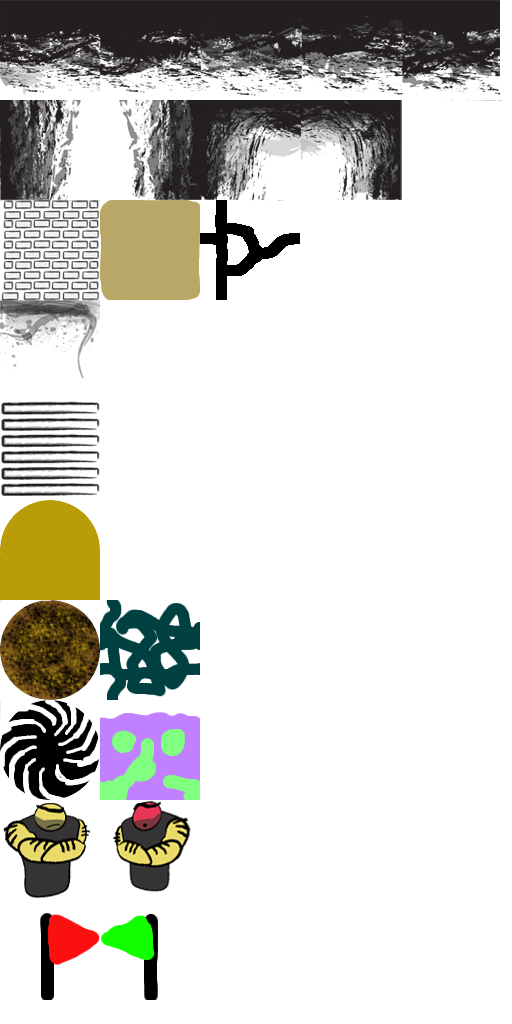
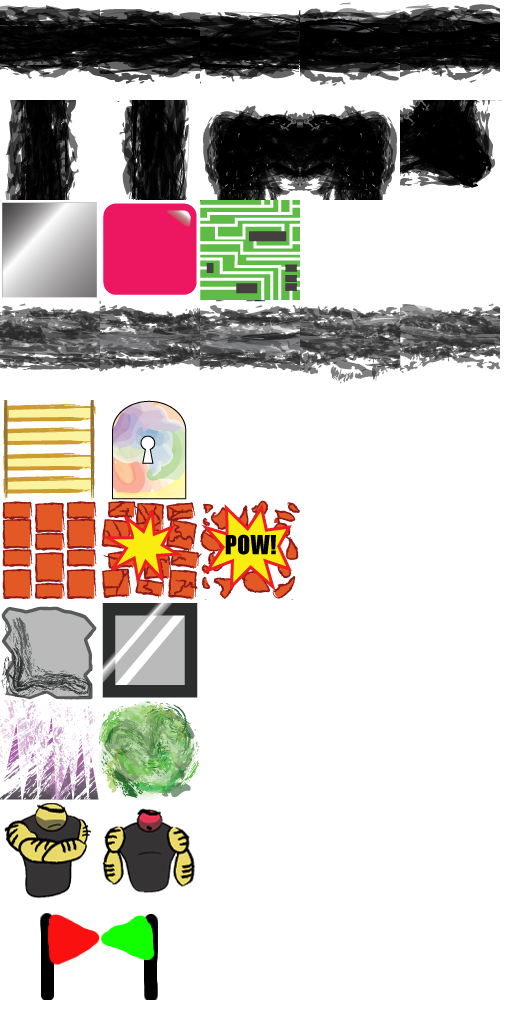
Updated the tile and also added animation for destruction of breakable block.

diff --git a/src/main.cpp b/src/main.cpp
@@ -209,12 +209,12 @@ void initLevel(int level)
 {
   // objects that are needed by the state
   Player *p;
-  Drawable *block1, *background, *breakable, *plat1, *ladder, *paused_background;
+  Drawable *block1, *background, *breakable1, *plat1, *ladder, *paused_background;
   Drawable *map_image, *pointer, *left_block, *right_block, *left_corner_block;
   Drawable *right_corner_block, *moveable, *goal, *block2, *block3, *block4;
   Drawable *block5, *black_hole, *bouncer_cr, *bouncer_cl, *bouncer_o, *rubber;
   Drawable *circuit, *n_check, *o_check, *toxic_sludge, *paused_names, *smog;
-  Drawable *br_bl, *bl_bl, *plat2, *plat3, *plat4, *plat5;
+  Drawable *br_bl, *bl_bl, *plat2, *plat3, *plat4, *plat5, *breakable2, *breakable3;
   Texture *t, *bg, *tiles, *pause_bg, *mi, *pi, *ahnold, *jumper, *nums, *ps_ic;
   Texture *engineer, *paris, *kurt, *p_names;
   vector<Texture*> textures;
@@ -375,7 +375,11 @@ void initLevel(int level)
   bl_bl->set_cur_frame(BR_CORNER_WALL_FRAME);
   bl_bl->change_direction(LEFT);
   background = new Drawable(0.0f, 0.0f, 1, 1, BACKGROUND, bg);
-  breakable = new Drawable(0.0f, 0.0f, BLOCKS, 1, TILE, tiles);
+  breakable1 = new Drawable(0.0f, 0.0f, BREAKS, 1, TILE, tiles);
+  breakable2 = new Drawable(0.0f, 0.0f, BREAKS, 1, TILE, tiles);
+  breakable2->set_cur_frame(2);
+  breakable3 = new Drawable(0.0f, 0.0f, BREAKS, 1, TILE, tiles);
+  breakable3->set_cur_frame(3);
   moveable = new Drawable(0.0f, 0.0f, BLOCKS, 1, TILE, tiles);
   //moveable->set_cur_frame(MOVEABLE_BLOCK);
   plat1 = new Drawable(0.0f, 0.0f, PLATS, 1, TILE, tiles);
@@ -391,7 +395,8 @@ void initLevel(int level)
   paused_background = new Drawable(0.0f, 0.0f, 1, 1, BACKGROUND, pause_bg);
   map_image = new Drawable(PAUSE_MAP_X, PAUSE_MAP_Y, 1, 1, VARIABLE, mi);
   pointer = new Drawable(650, 270, 1, 1, VARIABLE, pi);
-  goal = new Drawable(0.0f, 0.0f, GOALT, 1, TILE, tiles);
+  goal = new Drawable(0.0f, 0.0f, LADDS, 1, TILE, tiles);
+  goal->set_cur_frame(2);
   black_hole = new Drawable(0.0f, 0.0f, BH, 1, TILE, tiles);
   toxic_sludge = new Drawable(0.0f, 0.0f, BH, 1, TILE, tiles);
   toxic_sludge->set_cur_frame(T_SLUDGE_FRAME);
@@ -437,7 +442,9 @@ void initLevel(int level)
   v.push_back(plat3);
   v.push_back(plat4);
   v.push_back(plat5);
-  v.push_back(breakable);
+  v.push_back(breakable1);
+  v.push_back(breakable2);
+  v.push_back(breakable3);
   v.push_back(goal);
   v.push_back(black_hole);
   v.push_back(toxic_sludge);

diff --git a/src/map.cpp b/src/map.cpp
@@ -384,7 +384,7 @@ bool Map::load_map(const char *map_bmp, vector<Moveable *> &moveables,
         Moveable *move;
         get_top_left(mx, my);
         move = new Moveable(x * TILE_WIDTH + mx, y * TILE_HEIGHT + my,
-                            x, y, BREAKABLE, 1, ts, false, true, NULL);
+                            x, y, BLOCKS, 1, ts, false, true, NULL);
         moveables.push_back(move);
       }
       // moving rubber moveable block
@@ -422,7 +422,7 @@ bool Map::load_map(const char *map_bmp, vector<Moveable *> &moveables,
       else if(red[0] == 0 && green[0] == 128 && blue[0] == 255)
       {
         map[x][y][M_COLL] = 1;
-        map[x][y][M_TILE] = BREAKABLE;
+        map[x][y][M_TILE] = BREAKABLE1;
       }
       // goal
       else if(red[0] == 255 && green[0] == 255 && blue[0] == 0)
@@ -741,6 +741,25 @@ void Map::get_goal(float &x, float &y)
         x = i * TILE_WIDTH + get_x();
         y = j * TILE_HEIGHT + get_y();
         return;
+      }
+    }
+  }
+}
+
+void Map::update_breaks(void)
+{
+  for (int i = 0; i < get_width(); ++i)
+  {
+    for (int j = 0; j < get_height(); ++j)
+    {
+      if (map[i][j][M_TILE] == BREAKABLE2)
+      {
+        map[i][j][M_TILE] = BREAKABLE3;
+      }
+      else if (map[i][j][M_TILE] == BREAKABLE3)
+      {
+        map[i][j][M_TILE] = BG;
+        map[i][j][M_COLL] = 0;
       }
     }
   }

diff --git a/src/game_state.cpp b/src/game_state.cpp
@@ -19,7 +19,7 @@ Game_State::Game_State(Player *pl, Map *m, vector<Moveable *> mvs,
 :State(system), p(pl), c(pl), map(m), moveables(mvs), specials(sps),
 numbers(nums), next_special(0), gravity(true), collision(true), w(0), a(0),
 s(0), d(0), last_x(0), last_y(0), map_slide_effect(SLIDE_COUNTER), last_key(0),
-key_held(0), jump_delta(-1), controllable(false), debug(false) {}
+key_held(0), jump_delta(-1), controllable(false), debug(false), odd(false) {}
 
 // this draws everything to the screen
 void Game_State::draw(void)
@@ -1151,6 +1151,13 @@ void Game_State::update(int &delta)
       kisses.at(i)->set_delta(++a_delta);
     }
   }
+  
+  if(odd == 5)
+  {
+    map->update_breaks();
+  }
+  
+  odd = (odd + 1) % 6;
   
   // reset gravity for next run
   if (collision)

diff --git a/src/pause_state.cpp b/src/pause_state.cpp
@@ -41,7 +41,9 @@ void Pause_State::draw(void)
     {
       switch(m->get_tile(i, j))
       {
-        case BREAKABLE:
+        case BREAKABLE1:
+        case BREAKABLE2:
+        case BREAKABLE3:
           statics->set_tex_num(BREAK_ICON);
           statics->move(-statics->get_x() + PAUSE_MAP_X + (i - 1) * 2,
                         -statics->get_y() + PAUSE_MAP_Y + (j - 1) * 2);

diff --git a/src/defines.h b/src/defines.h
@@ -151,7 +151,9 @@ typedef enum
   PLATFORM3,
   PLATFORM4,
   PLATFORM5,
-  BREAKABLE,
+  BREAKABLE1,
+  BREAKABLE2,
+  BREAKABLE3,
   GOAL,
   BLACK_HOLE,
   TOXIC_SLUDGE,
@@ -173,6 +175,8 @@ enum
   BR_CORNER_WALL_FRAME,
 };
 
+#define BREAKING 10
+
 enum
 {
   FLOORS = 1,
@@ -180,7 +184,7 @@ enum
   BLOCKS,
   PLATS,
   LADDS,
-  GOALT,
+  BREAKS,
   PUSH,
   BH,
   BOUNCERS,

diff --git a/src/ahnold.cpp b/src/ahnold.cpp
@@ -40,9 +40,9 @@ void Ahnold::enable_ability(Map *m)
   }
   
   int block = -1;
-  if (will_collide_tile(m, BREAKABLE, hit))
+  if (will_collide_tile(m, BREAKABLE1, hit))
   {
-    m->remove(hit[0], hit[1]);
+    m->breaker(hit[0], hit[1]);
   }
   else if (will_collide_moveables_x(m->get_moveables(), -1, &block))
   {

diff --git a/src/map.h b/src/map.h
@@ -59,6 +59,9 @@ public:
   void clear_checkpoint(int x, int y);
   
   void get_goal(float &x, float &y);
+  void breaker(int x, int y) {map[x][y][M_TILE] = BREAKABLE2;map[x][y][M_COLL] = BREAKING;}
+  
+  void update_breaks(void);
   
   void calculate_location(Drawable *d, int &x, int &y);
   

diff --git a/src/beam.cpp b/src/beam.cpp
@@ -16,7 +16,9 @@ void Beam::use_ability(Map *m)
 {
   int hit[2];
   
-  if (will_collide_tile(m, BREAKABLE, hit))
+  if (will_collide_tile(m, BREAKABLE1, hit) ||
+      will_collide_tile(m, BREAKABLE2, hit) ||
+      will_collide_tile(m, BREAKABLE3, hit))
   {
     play_effect();
   }

diff --git a/src/game_state.h b/src/game_state.h
@@ -32,6 +32,7 @@ private:
   int jump_delta;
   bool controllable;
   bool debug;
+  int odd;
   
 public:
   Game_State(void);
